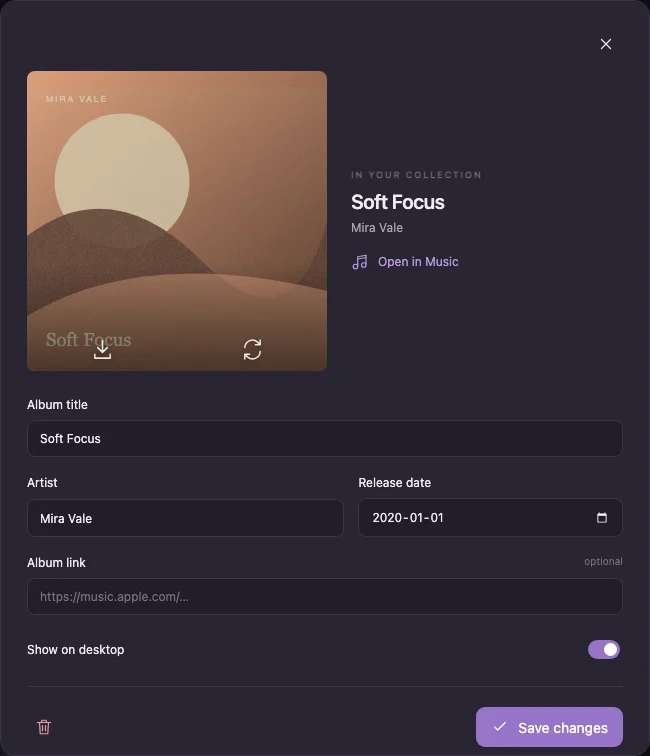
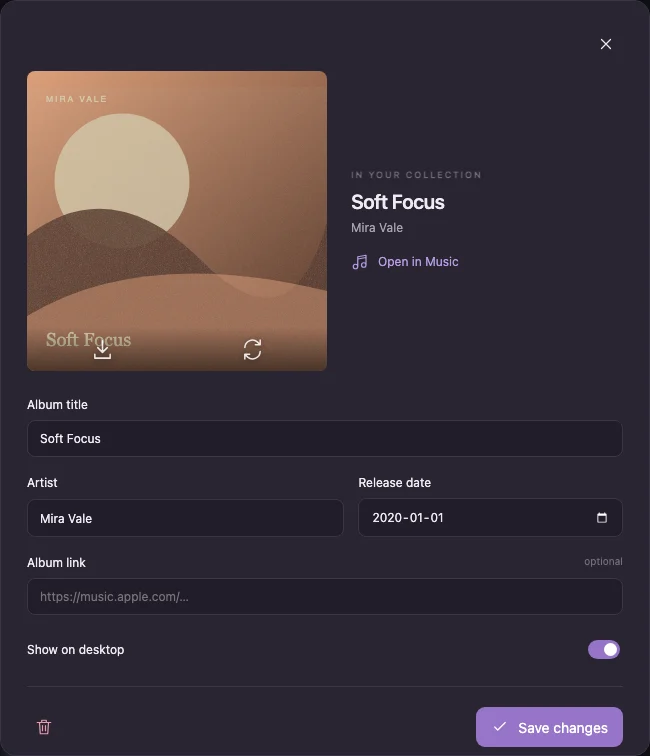
Add borderless original artwork gallery

Changed region(s): [[0.0308, 0.3651, 0.5231, 0.4868]]

diff --git a/src/App.svelte b/src/App.svelte
@@ -26,6 +26,9 @@
  let quitDialog:HTMLDialogElement
  let quitBackdropDown=false
  let modal:HTMLDialogElement
+ let gallery:HTMLDialogElement
+ let galleryBackdropDown=false
+ let artworkRatio=1
  let backdropPointerDown=false
  function outsideDialog(dialog:HTMLDialogElement,e:PointerEvent) {const r=dialog.getBoundingClientRect();return e.clientX<r.left||e.clientX>r.right||e.clientY<r.top||e.clientY>r.bottom}
  let desktopPreview:Desktop|undefined
@@ -82,7 +85,7 @@
  async function flushSettings(){clearTimeout(saveTimer);await saveQueue;if(settingsDirty){await api.saveSettings(structuredClone(library.settings));settingsDirty=false}}
  async function hideWindow(){try{await flushSettings();quitDialog?.close();if(api.native)await invoke('hide_window')}catch{await api.showAlert('The window could not be hidden.')}}
  async function quitApp(){try{await flushSettings();if(api.native)await invoke('quit_app');else quitDialog.close()}catch{await api.showAlert('Plinth could not quit.')}}
- function closeEditor(){edit=null;confirmRemove=false;modal?.close()}
+ function closeEditor(){gallery?.close();edit=null;confirmRemove=false;modal?.close()}
  async function remove(){if(!edit)return;try{await api.removeAlbum(edit.id);closeEditor();message('Removed from your collection. The original is kept in local storage.')}catch(e){error=String(e)}}
  async function open(album:Album){try{await api.openAlbum(album.id)}catch{await api.showAlert('Apple Music could not be opened.')}}
  function resetLayout(){library.settings[profile]={...defaultSettings[profile]};persist()}
@@ -109,6 +112,7 @@
     if(!desktop){const nativeWindow=getCurrentWebviewWindow();const scale=await nativeWindow.scaleFactor();const drop=await nativeWindow.onDragDropEvent(e=>{
      dragging=!edit&&(e.payload.type==='over'||e.payload.type==='enter');
      if(e.payload.type==='drop'){
+      if(gallery?.open)return
       if(edit){const rect=artworkTarget?.getBoundingClientRect(),x=e.payload.position.x/scale,y=e.payload.position.y/scale;if(rect&&x>=rect.left&&x<=rect.right&&y>=rect.top&&y<=rect.bottom){if(e.payload.paths.length===1)void replace(e.payload.paths[0]);else void api.showAlert('Choose one replacement image.')}}
       else void importPaths(e.payload.paths)
      }
@@ -120,7 +124,7 @@
 </script>
 
  <svelte:head><link rel="icon" type="image/png" href={logoUrl(settings.logo)}/><link rel="apple-touch-icon" href={logoUrl(settings.logo)}/></svelte:head>
- <svelte:window onpointerup={stopHoverPreview} onpointercancel={stopHoverPreview} onblur={stopHoverPreview} onpointerdown={(e)=>{if(!(e.target instanceof Element)||!e.target.closest('.sort-picker'))sortOpen=false}} onkeydown={(e)=>{if(desktop)return;if(quitDialog?.open){if(e.repeat){e.preventDefault();return}if((e.metaKey||e.ctrlKey)&&e.key.toLowerCase()==='q'){e.preventDefault();void quitApp()}else if((e.metaKey||e.ctrlKey)&&e.key.toLowerCase()==='w'){e.preventDefault();void hideWindow()}else if(e.key==='Escape'){e.preventDefault();quitDialog.close()}return}if(e.repeat&&(e.metaKey||e.ctrlKey)&&e.key.toLowerCase()==='q'){e.preventDefault();return}if(e.key==='Escape'&&sortOpen){sortOpen=false;return}if(e.altKey&&!e.metaKey&&!e.ctrlKey&&(e.code==='KeyQ'||e.code==='KeyW')){if(modal?.open||quitDialog?.open)return;e.preventDefault();const pages=['collection','appearance','settings'];page=pages[(pages.indexOf(page)+(e.code==='KeyQ'?-1:1)+pages.length)%pages.length];return}if((e.metaKey||e.ctrlKey)&&e.key.toLowerCase()==='q'){e.preventDefault();showQuit();return}if((e.metaKey||e.ctrlKey)&&e.key.toLowerCase()==='w'){e.preventDefault();void hideWindow();return}if(e.key==='/' && !(e.target instanceof HTMLInputElement) && !(e.target instanceof HTMLSelectElement)){e.preventDefault();document.querySelector<HTMLInputElement>('.search input')?.focus()}if((e.metaKey||e.ctrlKey)&&e.key==='o'){e.preventDefault();void choose()}if(e.key==='Escape'){if(quitDialog?.open)quitDialog.close();else closeEditor()}}}/>
+ <svelte:window onpointerup={stopHoverPreview} onpointercancel={stopHoverPreview} onblur={stopHoverPreview} onpointerdown={(e)=>{if(!(e.target instanceof Element)||!e.target.closest('.sort-picker'))sortOpen=false}} onkeydown={(e)=>{if(desktop)return;if(quitDialog?.open){if(e.repeat){e.preventDefault();return}if((e.metaKey||e.ctrlKey)&&e.key.toLowerCase()==='q'){e.preventDefault();void quitApp()}else if((e.metaKey||e.ctrlKey)&&e.key.toLowerCase()==='w'){e.preventDefault();void hideWindow()}else if(e.key==='Escape'){e.preventDefault();quitDialog.close()}return}if(e.repeat&&(e.metaKey||e.ctrlKey)&&e.key.toLowerCase()==='q'){e.preventDefault();return}if(e.key==='Escape'&&sortOpen){sortOpen=false;return}if(e.altKey&&!e.metaKey&&!e.ctrlKey&&(e.code==='KeyQ'||e.code==='KeyW')){if(modal?.open||quitDialog?.open)return;e.preventDefault();const pages=['collection','appearance','settings'];page=pages[(pages.indexOf(page)+(e.code==='KeyQ'?-1:1)+pages.length)%pages.length];return}if((e.metaKey||e.ctrlKey)&&e.key.toLowerCase()==='q'){e.preventDefault();showQuit();return}if((e.metaKey||e.ctrlKey)&&e.key.toLowerCase()==='w'){e.preventDefault();void hideWindow();return}if(gallery?.open){if(e.key==='Escape'){e.preventDefault();gallery.close()}return}if(e.key==='/' && !(e.target instanceof HTMLInputElement) && !(e.target instanceof HTMLSelectElement)){e.preventDefault();document.querySelector<HTMLInputElement>('.search input')?.focus()}if((e.metaKey||e.ctrlKey)&&e.key==='o'){e.preventDefault();void choose()}if(e.key==='Escape'){if(quitDialog?.open)quitDialog.close();else closeEditor()}}}/>
 {#if desktop}
  <Desktop {library}/>
 {:else}
@@ -177,8 +181,11 @@
  </div>
  <input class="visually-hidden" bind:this={files} type="file" accept="image/*" multiple onchange={(e)=>{void browserFiles(Array.from(e.currentTarget.files??[]));e.currentTarget.value=''}} aria-label="Artwork files"/>
  <input class="visually-hidden" bind:this={replacementFiles} type="file" accept="image/*" aria-label="Replacement image" onchange={(e)=>{const file=e.currentTarget.files?.[0];if(file)void replace(file);e.currentTarget.value=''}}/>
- <dialog class="album-dialog" bind:this={modal} onpointerdown={(e)=>backdropPointerDown=e.target===modal&&outsideDialog(modal,e)} onpointerup={(e)=>{if(backdropPointerDown&&e.target===modal&&outsideDialog(modal,e))closeEditor();backdropPointerDown=false}} onclose={()=>{edit=null;confirmRemove=false}} oncancel={closeEditor}>
- {#if edit}<form onsubmit={(e)=>{e.preventDefault();void saveAlbum()}}><div class="modal-heading"><button class="icon-only" type="button" aria-label="Close album editor" onclick={closeEditor}><Icon name="close"/></button></div><div class="editor-top"><div class="editor-artwork" bind:this={artworkTarget} class:replacing ondragover={(e)=>e.preventDefault()} ondrop={(e)=>{e.preventDefault();if(!api.native&&e.dataTransfer?.files.length===1)void replace(e.dataTransfer.files[0])}} role="presentation"><img draggable="false" ondragstart={(e)=>e.preventDefault()} src={api.originalUrl(edit)} alt={edit.title}/><div class="artwork-actions"><button type="button" class="icon-only" aria-label="Download original artwork" title="Download original artwork" onclick={download} disabled={replacing}><Icon name="download"/></button><button type="button" class="icon-only" aria-label="Replace artwork" title="Replace artwork" onclick={chooseReplacement} disabled={replacing}><Icon name="replace"/></button></div>{#if replacing}<span class="replacement-progress">Replacing…</span>{/if}</div><div><span class="eyebrow">IN YOUR COLLECTION</span><h3>{edit.title}</h3><p>{edit.artist||'Make it your own.'}</p><button type="button" class="text-button" onclick={()=>edit&&open(edit)}><Icon name="music"/>Open in Music</button></div></div><label>Album title<input required bind:value={edit.title}/></label><div class="two-fields"><label>Artist<input bind:value={edit.artist}/></label><label>Release date<input type="date" bind:value={edit.date}/></label></div><label>Album link <span class="optional">optional</span><input type="url" placeholder="https://music.apple.com/…" bind:value={edit.url}/></label><label class="toggle-row"><span>Show on desktop</span><input class="switch" type="checkbox" bind:checked={edit.enabled}/></label><div class="editor-actions">{#if confirmRemove}<button type="button" class="danger" onclick={remove}>Remove this album</button><button type="button" onclick={()=>confirmRemove=false}>Keep it</button>{:else}<button type="button" class="icon-only danger" aria-label="Remove album" onclick={()=>confirmRemove=true}><Icon name="trash"/></button><button type="submit" class="primary"><Icon name="check"/>Save changes</button>{/if}</div></form>{/if}
+ <dialog class="album-dialog" bind:this={modal} onpointerdown={(e)=>backdropPointerDown=e.target===modal&&outsideDialog(modal,e)} onpointerup={(e)=>{if(backdropPointerDown&&e.target===modal&&outsideDialog(modal,e))closeEditor();backdropPointerDown=false}} onclose={()=>{gallery?.close();edit=null;confirmRemove=false}} oncancel={closeEditor}>
+ {#if edit}<form onsubmit={(e)=>{e.preventDefault();void saveAlbum()}}><div class="modal-heading"><button class="icon-only" type="button" aria-label="Close album editor" onclick={closeEditor}><Icon name="close"/></button></div><div class="editor-top"><div class="editor-artwork" bind:this={artworkTarget} class:replacing ondragover={(e)=>e.preventDefault()} ondrop={(e)=>{e.preventDefault();if(!api.native&&e.dataTransfer?.files.length===1)void replace(e.dataTransfer.files[0])}} role="presentation"><img draggable="false" ondragstart={(e)=>e.preventDefault()} src={api.originalUrl(edit)} alt={edit.title}/><button type="button" class="artwork-expand" aria-label="View original artwork" onclick={()=>gallery.showModal()}></button><div class="artwork-actions"><button type="button" class="icon-only" aria-label="Download original artwork" title="Download original artwork" onclick={download} disabled={replacing}><Icon name="download"/></button><button type="button" class="icon-only" aria-label="Replace artwork" title="Replace artwork" onclick={chooseReplacement} disabled={replacing}><Icon name="replace"/></button></div>{#if replacing}<span class="replacement-progress">Replacing…</span>{/if}</div><div><span class="eyebrow">IN YOUR COLLECTION</span><h3>{edit.title}</h3><p>{edit.artist||'Make it your own.'}</p><button type="button" class="text-button" onclick={()=>edit&&open(edit)}><Icon name="music"/>Open in Music</button></div></div><label>Album title<input required bind:value={edit.title}/></label><div class="two-fields"><label>Artist<input bind:value={edit.artist}/></label><label>Release date<input type="date" bind:value={edit.date}/></label></div><label>Album link <span class="optional">optional</span><input type="url" placeholder="https://music.apple.com/…" bind:value={edit.url}/></label><label class="toggle-row"><span>Show on desktop</span><input class="switch" type="checkbox" bind:checked={edit.enabled}/></label><div class="editor-actions">{#if confirmRemove}<button type="button" class="danger" onclick={remove}>Remove this album</button><button type="button" onclick={()=>confirmRemove=false}>Keep it</button>{:else}<button type="button" class="icon-only danger" aria-label="Remove album" onclick={()=>confirmRemove=true}><Icon name="trash"/></button><button type="submit" class="primary"><Icon name="check"/>Save changes</button>{/if}</div></form>{/if}
+ </dialog>
+ <dialog class="artwork-gallery" bind:this={gallery} aria-label="Original artwork" onpointerdown={(e)=>galleryBackdropDown=e.target===gallery&&outsideDialog(gallery,e)} onpointerup={(e)=>{if(galleryBackdropDown&&e.target===gallery&&outsideDialog(gallery,e))gallery.close();galleryBackdropDown=false}}>
+  {#if edit}<img src={api.originalUrl(edit)} alt={edit.title} draggable="false" ondragstart={(e)=>e.preventDefault()} onload={(e)=>{const image=e.currentTarget as HTMLImageElement;artworkRatio=image.naturalWidth/image.naturalHeight}} style={`--artwork-ratio:${artworkRatio}`}/>{/if}
  </dialog>
  <dialog class="quit-dialog" bind:this={quitDialog} aria-labelledby="quit-title" onpointerdown={(e)=>quitBackdropDown=e.target===quitDialog&&outsideDialog(quitDialog,e)} onpointerup={(e)=>{if(quitBackdropDown&&e.target===quitDialog&&outsideDialog(quitDialog,e))quitDialog.close();quitBackdropDown=false}}>
   <h2 id="quit-title" bind:this={quitHeading} tabindex="-1">Quit Plinth?</h2>

diff --git a/src/app.css b/src/app.css
@@ -21,7 +21,7 @@ dialog{width:min(510px,calc(100vw - 40px));padding:26px;border:1px solid var(--l
 .quit-dialog{width:min(520px,calc(100vw - 40px))}.quit-dialog h2{font-size:20px;margin-bottom:14px}.quit-actions{display:flex;justify-content:flex-end;gap:8px;margin-top:26px}.quit-actions button{font-size:12px;padding:9px 12px}
 
 /* Artwork remains the focus; hover actions share the lower edge. */
-.album-dialog{width:min(650px,calc(100vw - 32px))}.editor-top{gap:24px;align-items:center}.editor-artwork{width:300px;flex:0 0 300px}.artwork-actions{inset:auto 0 0;height:36%;display:grid;grid-template-columns:1fr 1fr;gap:0;padding:0;background:linear-gradient(transparent,#0008);opacity:0;transform:translateY(14px);transition:opacity .2s ease,transform .2s ease;pointer-events:none}.editor-artwork:hover .artwork-actions,.editor-artwork:focus-within .artwork-actions{opacity:1;transform:translateY(0);pointer-events:auto}.artwork-actions button.icon-only{width:100%;height:100%;padding:30px 0 10px;border:0;border-radius:0;background:transparent;backdrop-filter:none;color:#ffffffe0;align-items:flex-end}.artwork-actions button.icon-only:hover{background:linear-gradient(transparent,#ffffff0d);color:white}.artwork-actions svg{width:23px;height:23px;filter:drop-shadow(0 1px 3px #0008)}img{-webkit-user-drag:none;user-select:none}.desktop-toggle{min-width:100px;font-size:11px;padding:8px 12px;justify-content:center;text-align:center}.app-shell main{max-width:none;width:100%;padding-inline:24px}.album-grid{width:100%}@media(max-width:700px){.editor-artwork{width:260px;flex-basis:260px}.editor-top{gap:16px}}@media(max-width:520px){.editor-top{flex-direction:column;align-items:stretch}.editor-artwork{width:100%;max-width:320px;flex-basis:auto;margin:0 auto}.app-shell main{padding-inline:16px}}
+.album-dialog{width:min(650px,calc(100vw - 32px))}.editor-top{gap:24px;align-items:center}.editor-artwork{width:300px;flex:0 0 300px}.artwork-actions{inset:auto 0 0;height:44px;display:grid;grid-template-columns:1fr 1fr;gap:0;padding:0;background:linear-gradient(transparent,#0008);opacity:0;transform:translateY(14px);transition:opacity .2s ease,transform .2s ease;pointer-events:none}.editor-artwork:hover .artwork-actions,.editor-artwork:focus-within .artwork-actions{opacity:1;transform:translateY(0);pointer-events:auto}.artwork-actions button.icon-only{width:100%;height:100%;padding:11px 0 10px;border:0;border-radius:0;background:transparent;backdrop-filter:none;color:#ffffffe0;align-items:flex-end}.artwork-actions button.icon-only:hover{background:linear-gradient(transparent,#ffffff0d);color:white}.artwork-actions svg{width:23px;height:23px;filter:drop-shadow(0 1px 3px #0008)}img{-webkit-user-drag:none;user-select:none}.desktop-toggle{min-width:100px;font-size:11px;padding:8px 12px;justify-content:center;text-align:center}.app-shell main{max-width:none;width:100%;padding-inline:24px}.album-grid{width:100%}@media(max-width:700px){.editor-artwork{width:260px;flex-basis:260px}.editor-top{gap:16px}}@media(max-width:520px){.editor-top{flex-direction:column;align-items:stretch}.editor-artwork{width:100%;max-width:320px;flex-basis:auto;margin:0 auto}.app-shell main{padding-inline:16px}}
 
 .sort-picker{position:relative}.sort-trigger{font-size:12px;min-width:128px;justify-content:space-between;border-color:transparent;padding:8px 10px}.sort-trigger svg{width:14px;height:14px}.sort-menu{position:absolute;z-index:30;right:0;top:calc(100% + 7px);width:175px;background:var(--paper-strong);border:1px solid var(--line);border-radius:9px;box-shadow:0 10px 30px #0004;padding:5px}.sort-menu button{width:100%;border:0;justify-content:space-between;border-radius:5px;font-size:12px;padding:10px}.sort-menu button[aria-checked=true]{color:var(--accent)}.sort-menu button:hover{background:var(--paper)}.sort-menu button svg{width:14px;height:14px}@media(max-width:760px){.toolbar-right{flex-wrap:wrap;justify-content:flex-end}.desktop-toggle{min-width:90px}.sort-trigger{min-width:105px}}
 
@@ -29,3 +29,5 @@ dialog{width:min(510px,calc(100vw - 40px));padding:26px;border:1px solid var(--l
 
 .logo-options{display:flex;gap:16px}.logo-option{display:flex;flex-direction:column;gap:8px;padding:3px;border:0;background:none!important;font-size:10px;color:var(--muted)}.logo-preview{display:grid;place-items:center;width:64px;height:64px;border-radius:10px;border:1px solid var(--line);background:var(--paper)}.logo-option.chosen{color:var(--ink)}.logo-option.chosen .logo-preview{outline:2px solid var(--accent);outline-offset:2px}.logo-option:hover .logo-preview{background:var(--paper-strong)}.logo-preview svg{border-radius:8px;overflow:hidden}
 @media(max-width:420px){.logo-setting{flex-wrap:wrap}.logo-options{gap:12px}}
+
+.artwork-expand{position:absolute;inset:0;width:100%;height:100%;padding:0;border:0;border-radius:0;cursor:default}.artwork-expand:hover:not(:disabled){background:transparent}.artwork-expand:focus-visible{outline-offset:-3px}.artwork-gallery{width:max-content;max-width:calc(100vw - 48px);max-height:calc(100vh - 48px);padding:0;border:0;border-radius:0;background:transparent;box-shadow:none;overflow:hidden;cursor:default;outline:none}.artwork-gallery::backdrop{background:#000b;backdrop-filter:blur(8px);cursor:default}.artwork-gallery img{display:block;width:min(calc(100vw - 48px),calc((100vh - 48px)*var(--artwork-ratio)));height:auto;max-height:calc(100vh - 48px)}

diff --git a/tests/app.spec.ts b/tests/app.spec.ts
@@ -161,3 +161,54 @@ test('Collection scrolls to every album with wheel, keyboard and focus, includin
  await page.mouse.wheel(0,2400)
  await expect(last).toBeInViewport()
 })
+
+test('artwork gallery preserves editor changes and closes only the top modal',async({page})=>{
+ await page.goto('/?demo=1');await page.getByRole('button',{name:'Edit Soft Focus',exact:true}).click()
+ await page.getByLabel('Album title').fill('Unsaved title')
+ const artwork=page.locator('.editor-artwork'),viewer=page.getByRole('button',{name:'View original artwork',exact:true}),gallery=page.getByRole('dialog',{name:'Original artwork',exact:true})
+ await expect(viewer).toHaveCSS('cursor','default')
+ await artwork.hover()
+ const bounds=(await artwork.boundingBox())!
+ // The old controls captured this point, well above their visible icons.
+ await page.mouse.click(bounds.x+bounds.width/4,bounds.y+bounds.height-65)
+ await expect(gallery).toBeVisible()
+ const image=gallery.locator('img')
+ await expect(image).toHaveAttribute('src',(await artwork.locator('img').getAttribute('src'))!)
+ await expect(image).toHaveAttribute('draggable','false')
+ await expect(gallery).toHaveCSS('border-top-width','0px')
+ await expect(gallery).toHaveCSS('cursor','default')
+ const size=(await image.boundingBox())!
+ expect(size.height).toBeCloseTo(852,0);expect(size.width).toBeCloseTo(size.height,0)
+ await image.click();await expect(gallery).toBeVisible()
+ await page.mouse.move(size.x+size.width/2,size.y+size.height/2);await page.mouse.down();await page.mouse.move(5,5);await page.mouse.up()
+ await expect(gallery).toBeVisible()
+ await page.mouse.click(5,5);await expect(gallery).not.toBeVisible()
+ await expect(page.getByLabel('Album title')).toHaveValue('Unsaved title')
+ await expect(viewer).toBeFocused()
+ await page.keyboard.press('Enter');await expect(gallery).toBeVisible()
+ await page.keyboard.press('Escape');await expect(gallery).not.toBeVisible()
+ await expect(page.locator('.album-dialog')).toBeVisible()
+ await expect(page.getByLabel('Album title')).toHaveValue('Unsaved title')
+ const chooser=page.waitForEvent('filechooser')
+ await page.getByRole('button',{name:'Replace artwork',exact:true}).click();await chooser
+ await expect(gallery).not.toBeVisible()
+ const download=page.waitForEvent('download')
+ await page.getByRole('button',{name:'Download original artwork',exact:true}).click();await download
+ await expect(gallery).not.toBeVisible()
+ await page.keyboard.press('Escape');await expect(page.locator('.album-dialog')).not.toBeVisible()
+})
+
+test('gallery fits landscape and portrait originals without distortion',async({page})=>{
+ await page.goto('/?demo=1');await page.getByRole('button',{name:'Edit Soft Focus',exact:true}).click()
+ for(const [width,height] of [[160,80],[80,160]]){
+  await page.getByLabel('Replacement image').setInputFiles({name:'aspect.png',mimeType:'image/png',buffer:await sharp({create:{width,height,channels:3,background:'#c8724c'}}).png().toBuffer()})
+  await expect(page.locator('.editor-artwork')).not.toHaveClass(/replacing/)
+  await page.getByRole('button',{name:'View original artwork',exact:true}).click()
+  const image=page.locator('.artwork-gallery img')
+  await expect.poll(async()=>{const box=(await image.boundingBox())!;return box.width/box.height}).toBeCloseTo(width/height,2)
+  const box=(await image.boundingBox())!
+  expect(box.width).toBeLessThanOrEqual(1132);expect(box.height).toBeLessThanOrEqual(852)
+  expect(Math.max(box.width/1132,box.height/852)).toBeCloseTo(1,2)
+  await page.keyboard.press('Escape')
+ }
+})

diff --git a/tests/screenshots.spec.ts b/tests/screenshots.spec.ts
@@ -27,6 +27,11 @@ test('README screenshots use only synthetic demo artwork',async({page})=>{
  await page.getByRole('button',{name:'Edit Soft Focus',exact:true}).click()
  await page.locator('.editor-artwork').hover()
  await sharp(await page.locator('.album-dialog').screenshot({animations:'disabled'})).webp({quality:86}).toFile('docs/screenshots/album.webp')
+ await page.getByRole('button',{name:'View original artwork',exact:true}).click()
+ await page.locator('.artwork-gallery img').evaluate(async(image:HTMLImageElement)=>image.decode())
+ await page.mouse.move(0,0)
+ await sharp(await page.screenshot({animations:'disabled'})).webp({quality:86}).toFile('docs/screenshots/gallery.webp')
+ await page.keyboard.press('Escape')
  await page.getByRole('button',{name:'Close album editor'}).click()
  await page.keyboard.press('Control+q')
  await sharp(await page.getByRole('dialog',{name:'Quit Plinth?'}).screenshot()).webp({quality:86}).toFile('docs/screenshots/quit.webp')

diff --git a/README.md b/README.md
@@ -10,7 +10,7 @@ Plinth is a macOS menu bar app that turns your album artwork into an interactive
 
 - **Drop artwork in.** Import individual images. Plinth preserves originals, creates optimized JPEGs up to 1200 px, and skips exact duplicates. PNG, JPEG, WebP, GIF (first frame), TIFF, and BMP are supported.
 - **Make it yours.** Change columns, spacing, top clearance, corner radius, shadow, opacity, hover size, and ordering in the UI. Sort by artist, title, newest date, oldest date, or shuffle; choosing Shuffled again creates a new order. Choose a Mac display or 4K monitor preview with a separate layout for each. Appearance selects the display containing the Plinth window and uses detected pixel dimensions and scaling. The Mac preview identifies the built-in panel, even when another display is primary. If macOS hides that panel with the lid closed, Plinth uses its last detected dimensions; before the first detection, it shows “Not detected.”
-- **Keep your music close.** Click a desktop cover to reveal its album in Apple Music, or open its saved HTTPS link. Edit titles, artists, release dates, links, and desktop visibility in the collection. The editor shows large original artwork, with download and replace controls that fade in on hover; drop a single image onto it to replace it. The collection and desktop use optimized copies.
+- **Keep your music close.** Click a desktop cover to reveal its album in Apple Music, or open its saved HTTPS link. Edit titles, artists, release dates, links, and desktop visibility in the collection. The editor shows large original artwork, with download and replace controls that fade in on hover; drop a single image onto it to replace it. Click the artwork to view it nearly full screen, then click the dimmed background or press Escape to return to the editor. The collection and desktop use optimized copies.
 - **Hover without switching apps.** Hold the Hover size slider to preview a randomly selected album at the chosen enlargement; release to return it to normal. Native macOS pointer tracking enlarges covers over exposed desktop areas while another app retains focus. Covers stay behind normal windows; moving over another window clears the hover.
 - **Stay in the menu bar.** Plinth appears in the Dock while its window is open. Closing the window or pressing Command-W hides it and keeps the desktop running. Command-Q opens a dialog with Cancel (Escape), Hide window (Command-W) in the middle, and Quit Plinth (Command-Q). No action is selected by default; Return does nothing until you focus a button. Left-click the menu bar icon to open Plinth. Right-click for Open Plinth, Hide desktop / Show desktop, and Quit Plinth.
 - **Keep everything local.** No account, cloud service, analytics, or encryption setup. The production app does not run an HTTP server or depend on Plash or Python.
@@ -20,6 +20,8 @@ Plinth is a macOS menu bar app that turns your album artwork into an interactive
 ![App settings](docs/screenshots/settings.webp)
 
 ![Original artwork and hover controls](docs/screenshots/album.webp)
+
+![Borderless artwork gallery](docs/screenshots/gallery.webp)
 
 The screenshots contain only synthetic artwork and fictional album metadata. No personal music collection is included in this repository.
 
